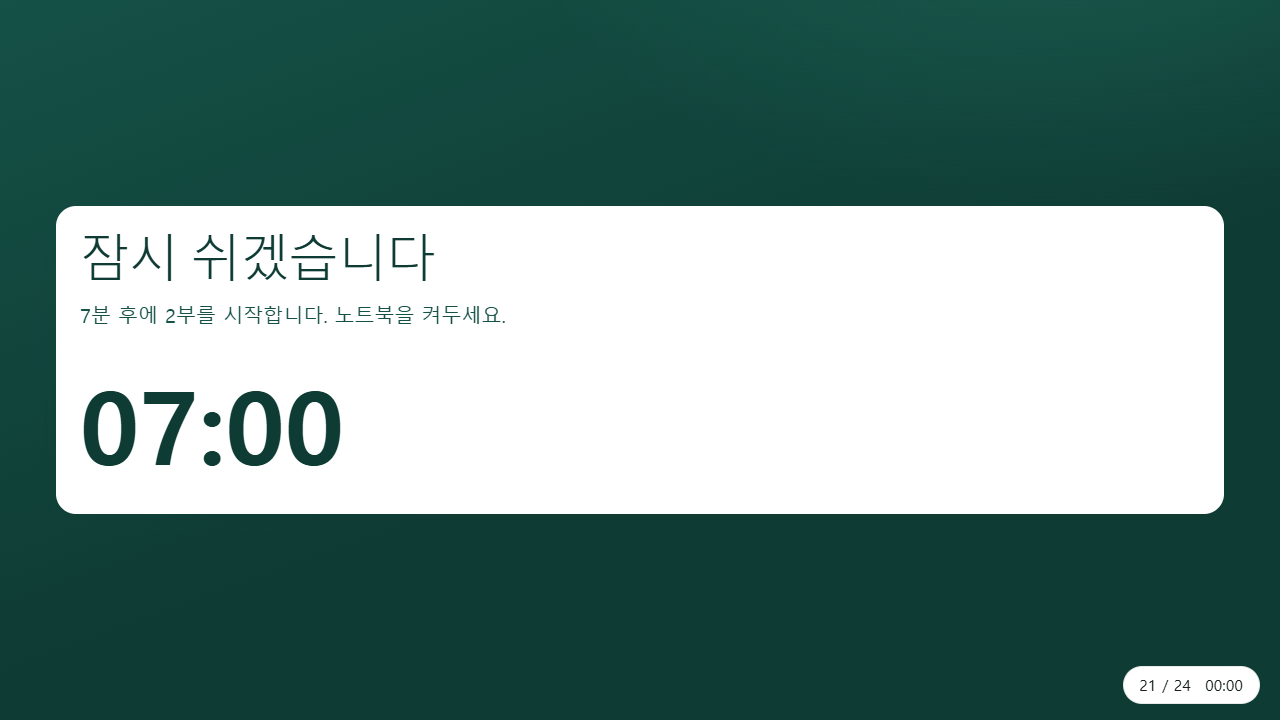
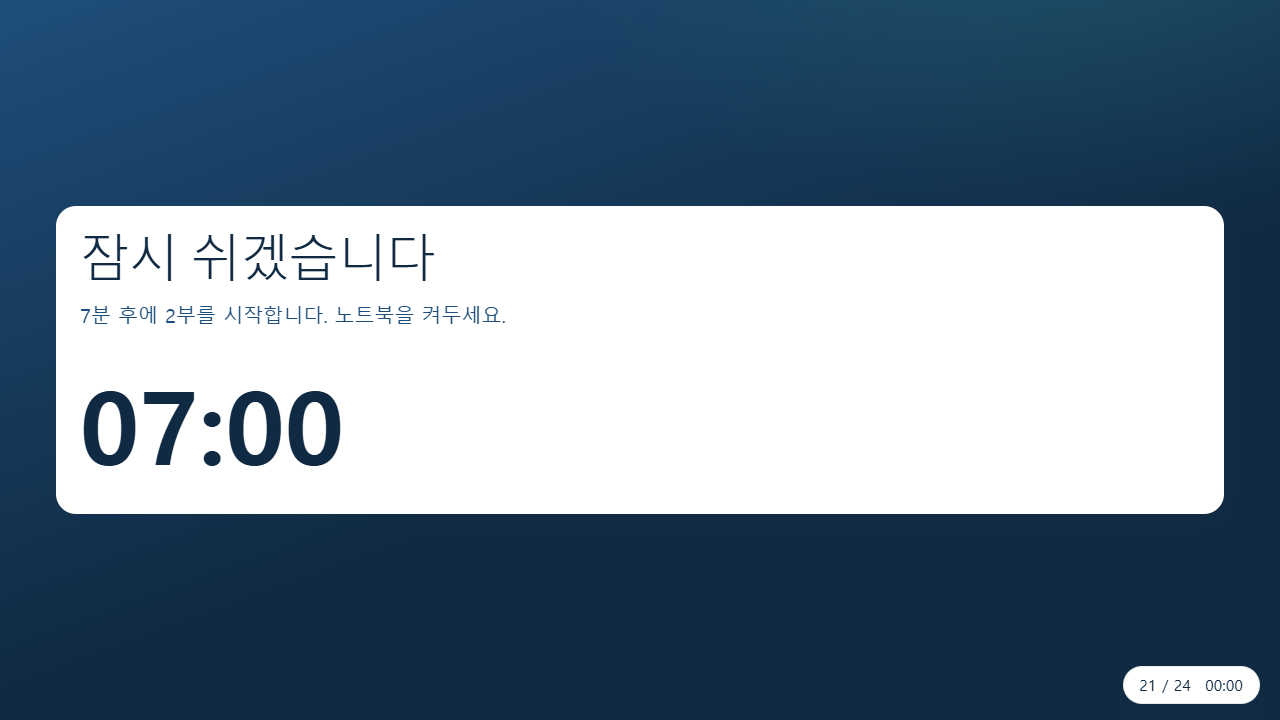
fix: 다크모드를 뺀다 — 시스템이 다크여도 밝은 화면으로 고정
다크 블록에 옛 녹색 값이 그대로 남아 있었다. 밝은 쪽만 파랑으로 바꾸고 어두운
쪽은 --paper #0F1512 처럼 녹색빛 어둠이라, 시스템이 다크인 기기에서는 방금 만든
파랑 디자인이 아니라 전혀 다른 화면이 나왔다. 「CSS 가 안 입혀진 것 같다」던 증상이
이것이었을 가능성이 크다.

- shared/tokens.css 의 다크 블록 2개, shared/deck.css 의 1개를 제거
- :root 에 color-scheme:light — 폼 컨트롤·스크롤바까지 밝은 쪽으로 고정
- --text 가 옛 녹색빛 검정(#16211D)이라 안내서·덱 본문이 녹색 계열이었다.
  남색(#102A43)으로 맞췄다

확인: 시스템 light/dark 양쪽에서 홈·안내서·덱 전부 배경 #F7FAFF, 글자 #102A43 으로
동일. 덱 24장 1280x720 유지, 대본 141문장 그대로, 데이터 짝 맞음.

Changed region(s): [[0.0, 0.0, 1.0, 0.7333], [0.2812, 0.4278, 0.375, 0.4583]]

diff --git a/shared/tokens.css b/shared/tokens.css
@@ -3,6 +3,8 @@
    ========================================================================== */
 
 :root{
+  /* 다크모드를 쓰지 않는다. 시스템이 다크여도 밝은 화면으로 고정 */
+  color-scheme: light;
   /* 브랜드 토큰 */
   --ink:#102A43;
   --ink2:#1E4E79;
@@ -24,24 +26,13 @@
   --radius:14px;
   --shadow:0 8px 24px rgba(16,42,67,.10);
   --maxw:1280px;
-  --text:#16211D;
+  --text:#102A43;
   --text-dim:var(--mute);
 }
 
 /* ==========================================================================
    다크 모드
    ========================================================================== */
-@media (prefers-color-scheme: dark){
-  :root{
-    --paper:#0F1512;
-    --card:#182420;
-    --line:#2A3B35;
-    --mute:#9FB3AC;
-    --text:#EAF3F0;
-    --text-dim:#B7CAC4;
-  }
-}
-
 /* ==========================================================================
    프로젝터 모드
    ========================================================================== */
@@ -168,11 +159,6 @@ h1,h2,h3,h4,h5,h6,p,ul,ol,figure,blockquote{
   --tone-cream:rgba(168,79,19,.05);
   --tone-mint:rgba(37,99,235,.05);
   --brand-fg:var(--ink);
-}
-@media (prefers-color-scheme: dark){
-  :root{
-    --brand-fg:var(--mint2);
-  }
 }
 html[data-projector]{
   --brand-fg:var(--ink);

diff --git a/shared/deck.css b/shared/deck.css
@@ -815,17 +815,6 @@ svg.aimap[data-zoom="2"] .node:not(.is-focus){
    그래서 덱을 여는 페이지(deck.css 를 읽는 페이지)만 다크 모드를 따르지 않는다.
    일반 페이지(site.css)는 다크 모드를 그대로 지원한다.
    html[data-projector] 는 이보다 우선순위가 높아 프로젝터 모드가 계속 이긴다. */
-@media (prefers-color-scheme: dark){
-  :root{
-    --paper:#F6F9F8;
-    --card:#FFFFFF;
-    --line:#D9E5E1;
-    --mute:#61756F;
-    --text:#16211D;
-    --text-dim:#61756F;
-  }
-}
-
 /* ---------- 2. 그림자 — 두 겹으로 얕게. 프로젝터 모드는 --shadow:none 이 이긴다 ---------- */
 :root{
   --shadow: 0 1px 2px rgba(14,59,51,.05), 0 14px 30px -12px rgba(14,59,51,.18);
